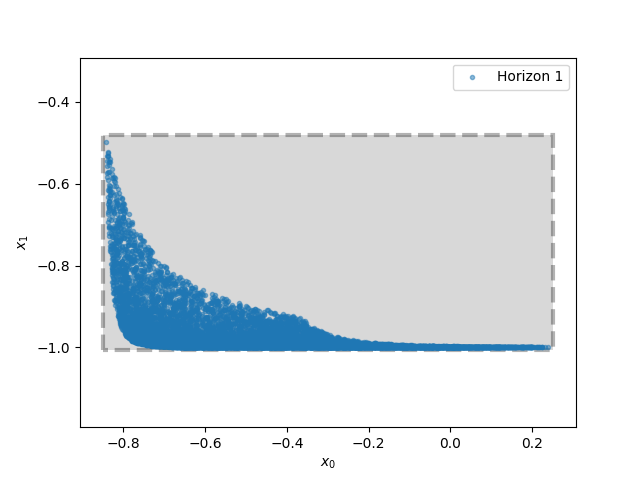
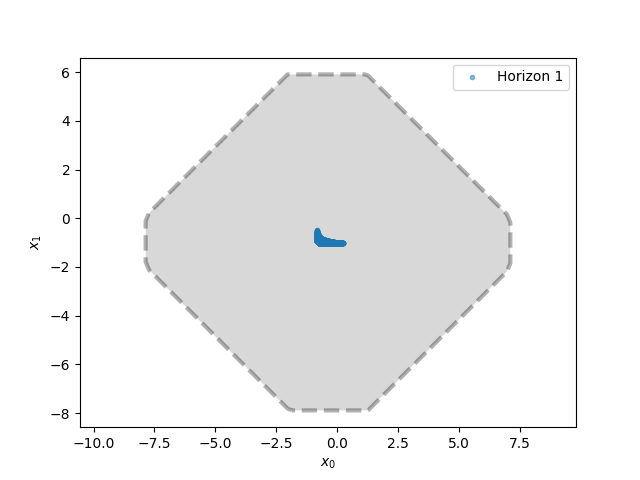
ICA Added + Rotation Problem solved + Nonlinear Curvature bug fixed

diff --git a/run.py b/run.py
@@ -105,7 +105,7 @@ def setArgs(args, configFile, Method=None):
 
 
 
-def calculateDirectionsOfOptimization(onlyPcaDirections, imageData, label_data = None):
+def calculateDirectionsOfOptimization(onlyPcaDirections, imageData, label_data = None, network = None):
     data_mean = None
     inputData = None
     pcaDirections = []
@@ -122,14 +122,14 @@ def calculateDirectionsOfOptimization(onlyPcaDirections, imageData, label_data =
         data_comp = pca.components_
 
 
-        inputData = torch.from_numpy(data_comp @ (imageData.cpu().numpy() - data_mean).T).T.float()
+        inputData = torch.from_numpy(data_comp @ (imageData.cpu().numpy()).T).T.float()
         # print(np.linalg.norm(data_comp, 2, 1))
         for direction in data_comp:
             pcaDirections.append(-direction)
             pcaDirections.append(direction)
 
     elif label_data == None:
-        if True:
+        if network.isLinear:
             numDirections = 8
             data_comp = np.array(
                 [np.array([np.cos(i * np.pi / numDirections), np.sin(i * np.pi / numDirections)]) for i in range(numDirections)])
@@ -138,7 +138,7 @@ def calculateDirectionsOfOptimization(onlyPcaDirections, imageData, label_data =
             data_comp = np.eye(numDirections)
         
         data_mean = np.mean(imageData.numpy(), 0)
-        inputData = torch.from_numpy(data_comp @ (imageData.cpu().numpy() - data_mean).T).T.float()
+        inputData = torch.from_numpy(data_comp @ (imageData.cpu().numpy()).T).T.float()
         for direction in data_comp:
             pcaDirections.append(-direction)
             pcaDirections.append(direction)
@@ -350,10 +350,11 @@ def main(Method = None):
             imageData = networkZonotope.forward(inputDataVariable)
 
         plottingData[iteration + 1] = {"exactSet": imageData}
-        pcaDirections, data_comp, data_mean, inputData = calculateDirectionsOfOptimization(args.onlyPcaDirections, imageData, None)
+        pcaDirections, data_comp, data_mean, inputData = calculateDirectionsOfOptimization(args.onlyPcaDirections, imageData, None, network=networkZonotope)
                                                                                            
         if args.verboseMultiHorizon and plotInitandHorizon:
-            plt.scatter(imageData[:, 0], imageData[:, 1], marker='.', label='Horizon ' + str(iteration + 1), alpha=0.5)
+            plt.scatter(imageData[:, 0],
+                         imageData[:, 1], marker='.', label='Horizon ' + str(iteration + 1), alpha=0.5)
 
 
         numberOfInitialDirections = len(pcaDirections)
@@ -380,18 +381,19 @@ def main(Method = None):
         if args.finalHorizon > 1:
             rotation = nn.Linear(dim, dim)
             rotation.weight = torch.nn.parameter.Parameter(torch.linalg.inv(torch.from_numpy(data_comp).float().to(args.device)))
-            rotation.bias = torch.nn.parameter.Parameter(torch.from_numpy(data_mean).float().to(args.device))
+            # rotation.bias = torch.nn.parameter.Parameter(torch.from_numpy(data_mean).float().to(args.device))
+            rotation.bias = torch.nn.parameter.Parameter(torch.zeros(dim).float().to(args.device))
             # print(rotation.weight, '\n', rotation.weight.T @ rotation.weight)
  
             networkZonotope.rotation = rotation
 
-            centers = []
+
             for i, component in enumerate(data_comp):
                 u = -calculatedLowerBoundsforpcaDirections[2 * i]
                 l = calculatedLowerBoundsforpcaDirections[2 * i + 1]
                 # center = (u + l) / 2
                 center = component @ data_mean
-                centers.append(center)
+                center=0
                 upperCoordinate[i] = u - center
                 lowerCoordinate[i] = l - center
             

diff --git a/Bounding/LipschitzBound.py b/Bounding/LipschitzBound.py
@@ -31,7 +31,10 @@ class LipschitzBounding:
                  horizon=1, 
                  activation='softplus',
                  boundingMethod='firstOrder',
-                 lipsdp=True):
+                 lipsdp=True,
+                 coordLow = None,
+                 coordUp = None):
+        
         self.network = network
         self.device = device
         if originalNetwork:
@@ -53,6 +56,8 @@ class LipschitzBounding:
         self.boundingMethod = boundingMethod
         self.calculatedCurvatureConstants = []
         self.lipsdp = lipsdp
+        self.coordLow=coordLow
+        self.coordUp=coordUp
 
     def calculateboundsCROWN(self, 
                             inputLowerBound: torch.Tensor,
@@ -84,8 +89,10 @@ class LipschitzBounding:
                                                                     self.network.activation)
         
         ubound = torch.Tensor(np.maximum(np.abs(lowerBounds[-1]), np.abs(upperBounds[-1])))
-        x0bound = torch.maximum(torch.abs(inputLowerBound[:, 0]), torch.abs(inputUpperBound[:, 0]))
-        x1bound = torch.maximum(torch.abs(inputLowerBound[:, 1]), torch.abs(inputUpperBound[:, 1]))
+        # x0bound = torch.maximum(torch.abs(inputLowerBound[:, 0]), torch.abs(inputUpperBound[:, 0]))
+        # x1bound = torch.maximum(torch.abs(inputLowerBound[:, 1]), torch.abs(inputUpperBound[:, 1]))
+        x0bound = torch.maximum(torch.abs(self.coordLow[0]), torch.abs(self.coordUp[0]))
+        x1bound = torch.maximum(torch.abs(self.coordLow[1]), torch.abs(self.coordUp[1]))
         deltaT = self.network.deltaT
         # B1-B5
         if self.network.NLBench == 'B1':
@@ -96,6 +103,8 @@ class LipschitzBounding:
                 curvcoef = torch.abs(queryCoefficient[1])
             else:
                 curvcoef = torch.abs(queryCoefficient[2])
+            
+            
             return  deltaT * (6. * torch.abs(queryCoefficient[0]) * x0bound + \
                                 curvcoef * self.calculatedCurvatureConstants)
         elif self.network.NLBench == 'B3':
@@ -476,7 +485,7 @@ class LipschitzBounding:
                     temp2 = temp1
                 else:
                     temp2 = self.network(centerPoint) @ queryCoefficient - firstOrderAdditiveTerm
-                
+
                 lowerBound = torch.maximum(temp1, temp2)
                 # upperBound = self.network(centerPoint) @ queryCoefficient + additiveTerm1 + additiveTerm2
             self.pauseTime(timer, "lowerBound:lipschitzForwardPass")

diff --git a/BranchAndBound.py b/BranchAndBound.py
@@ -34,7 +34,9 @@ class BranchAndBound:
                                                  originalNetwork=originalNetwork,
                                                  horizon=horizonForLipschitz,
                                                  boundingMethod=boundingMethod,
-                                                 lipsdp=lipsdp
+                                                 lipsdp=lipsdp,
+                                                 coordLow = coordLow,
+                                                 coordUp = coordUp
                                                  )
 
         self.queryCoefficient = queryCoefficient
@@ -278,7 +280,7 @@ class BranchAndBound:
                 print('----------' * 10)
         
         # print('u -  l', self.bestUpperBound - self.bestLowerBound)
-        # assert self.bestUpperBound + 1e-5 >= self.bestLowerBound
+        assert self.bestUpperBound + 1e-6 >= self.bestLowerBound
         
         if self.verbose:
             print("Number of created nodes: {}".format(self.numberOfBranches))
